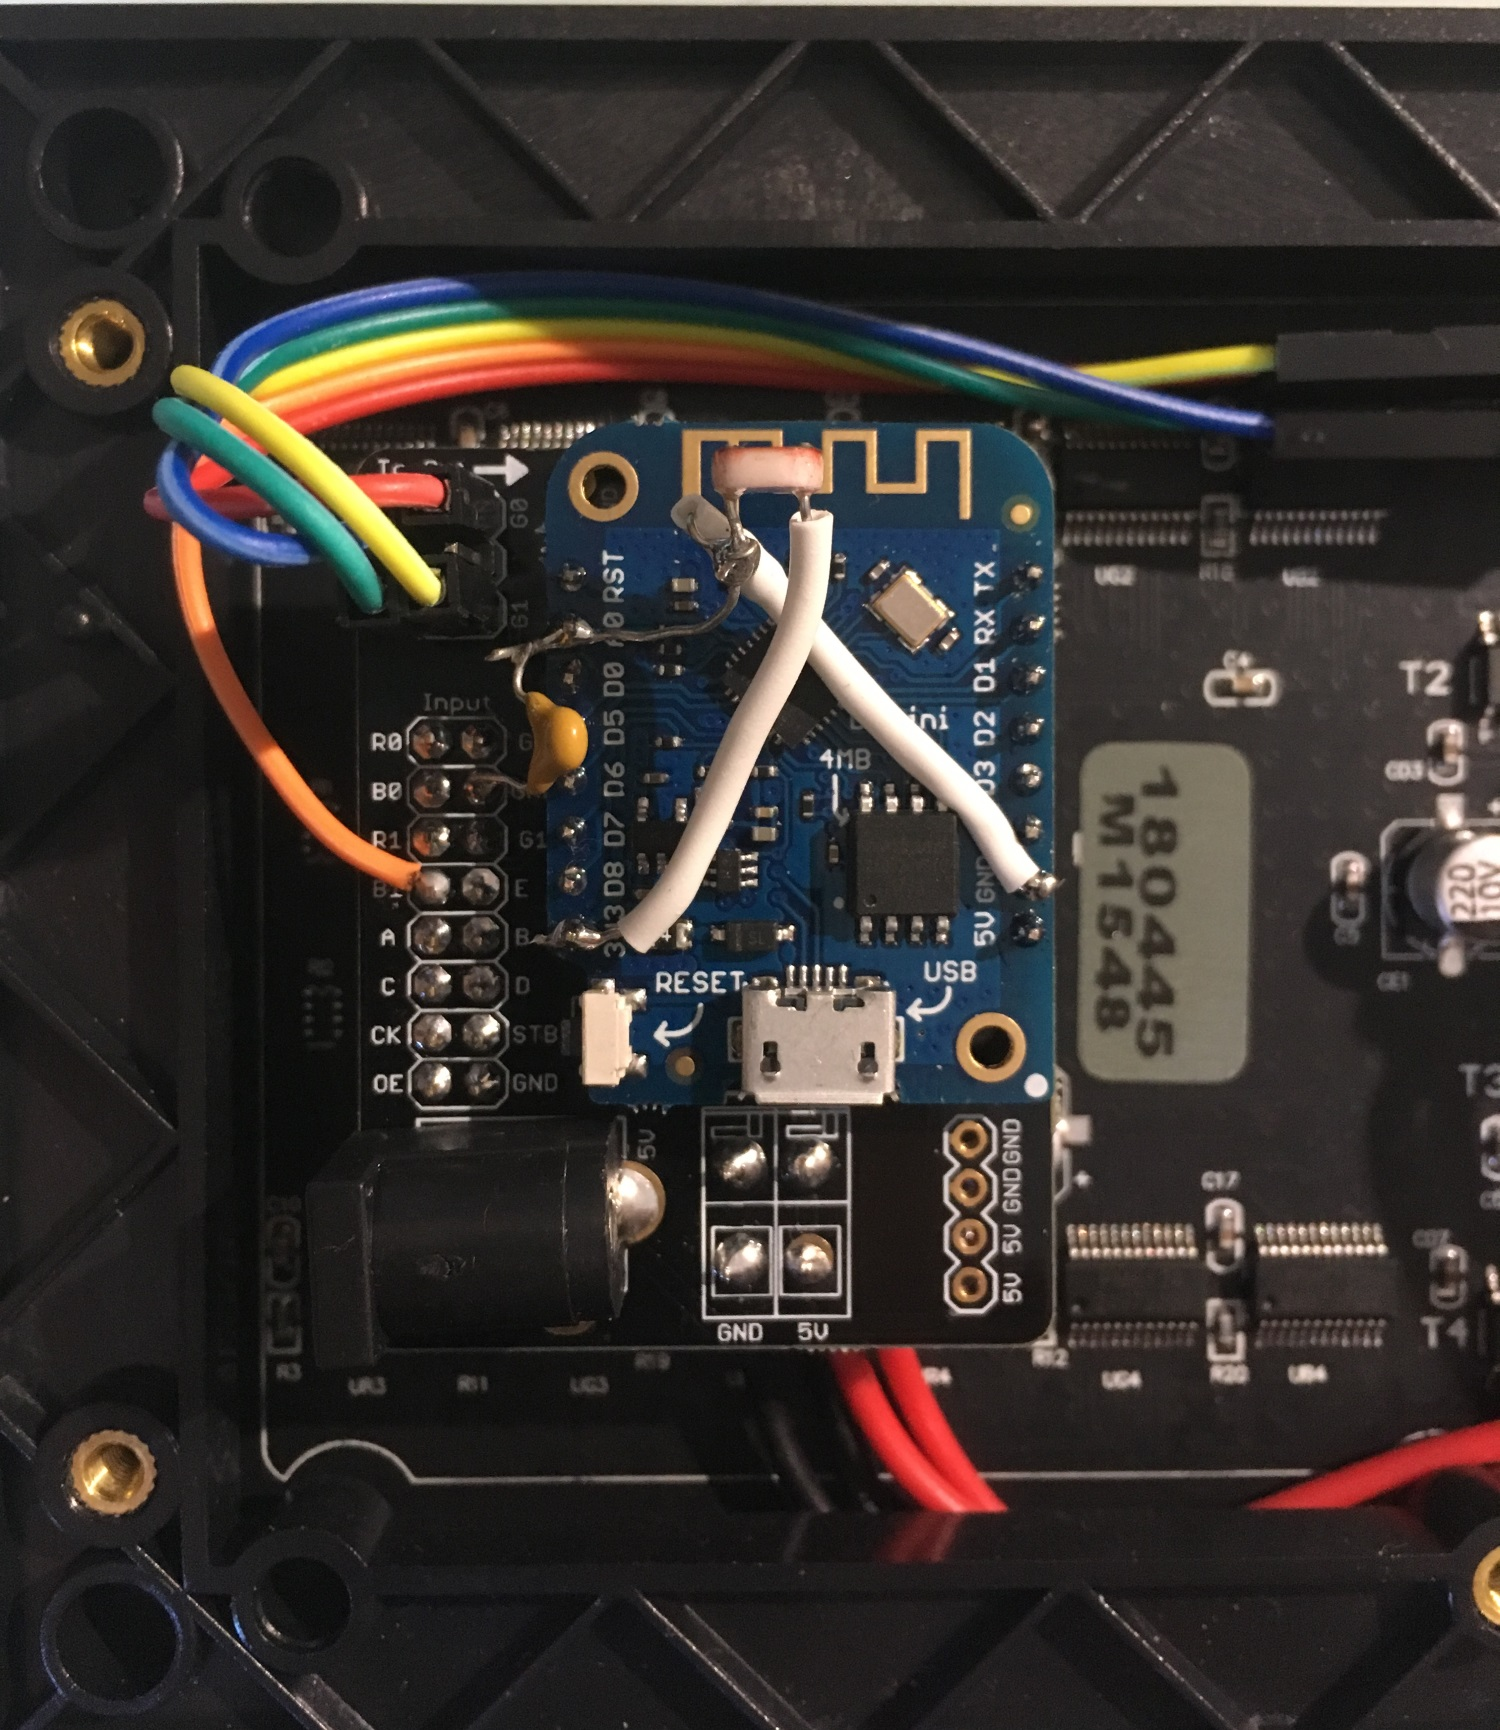
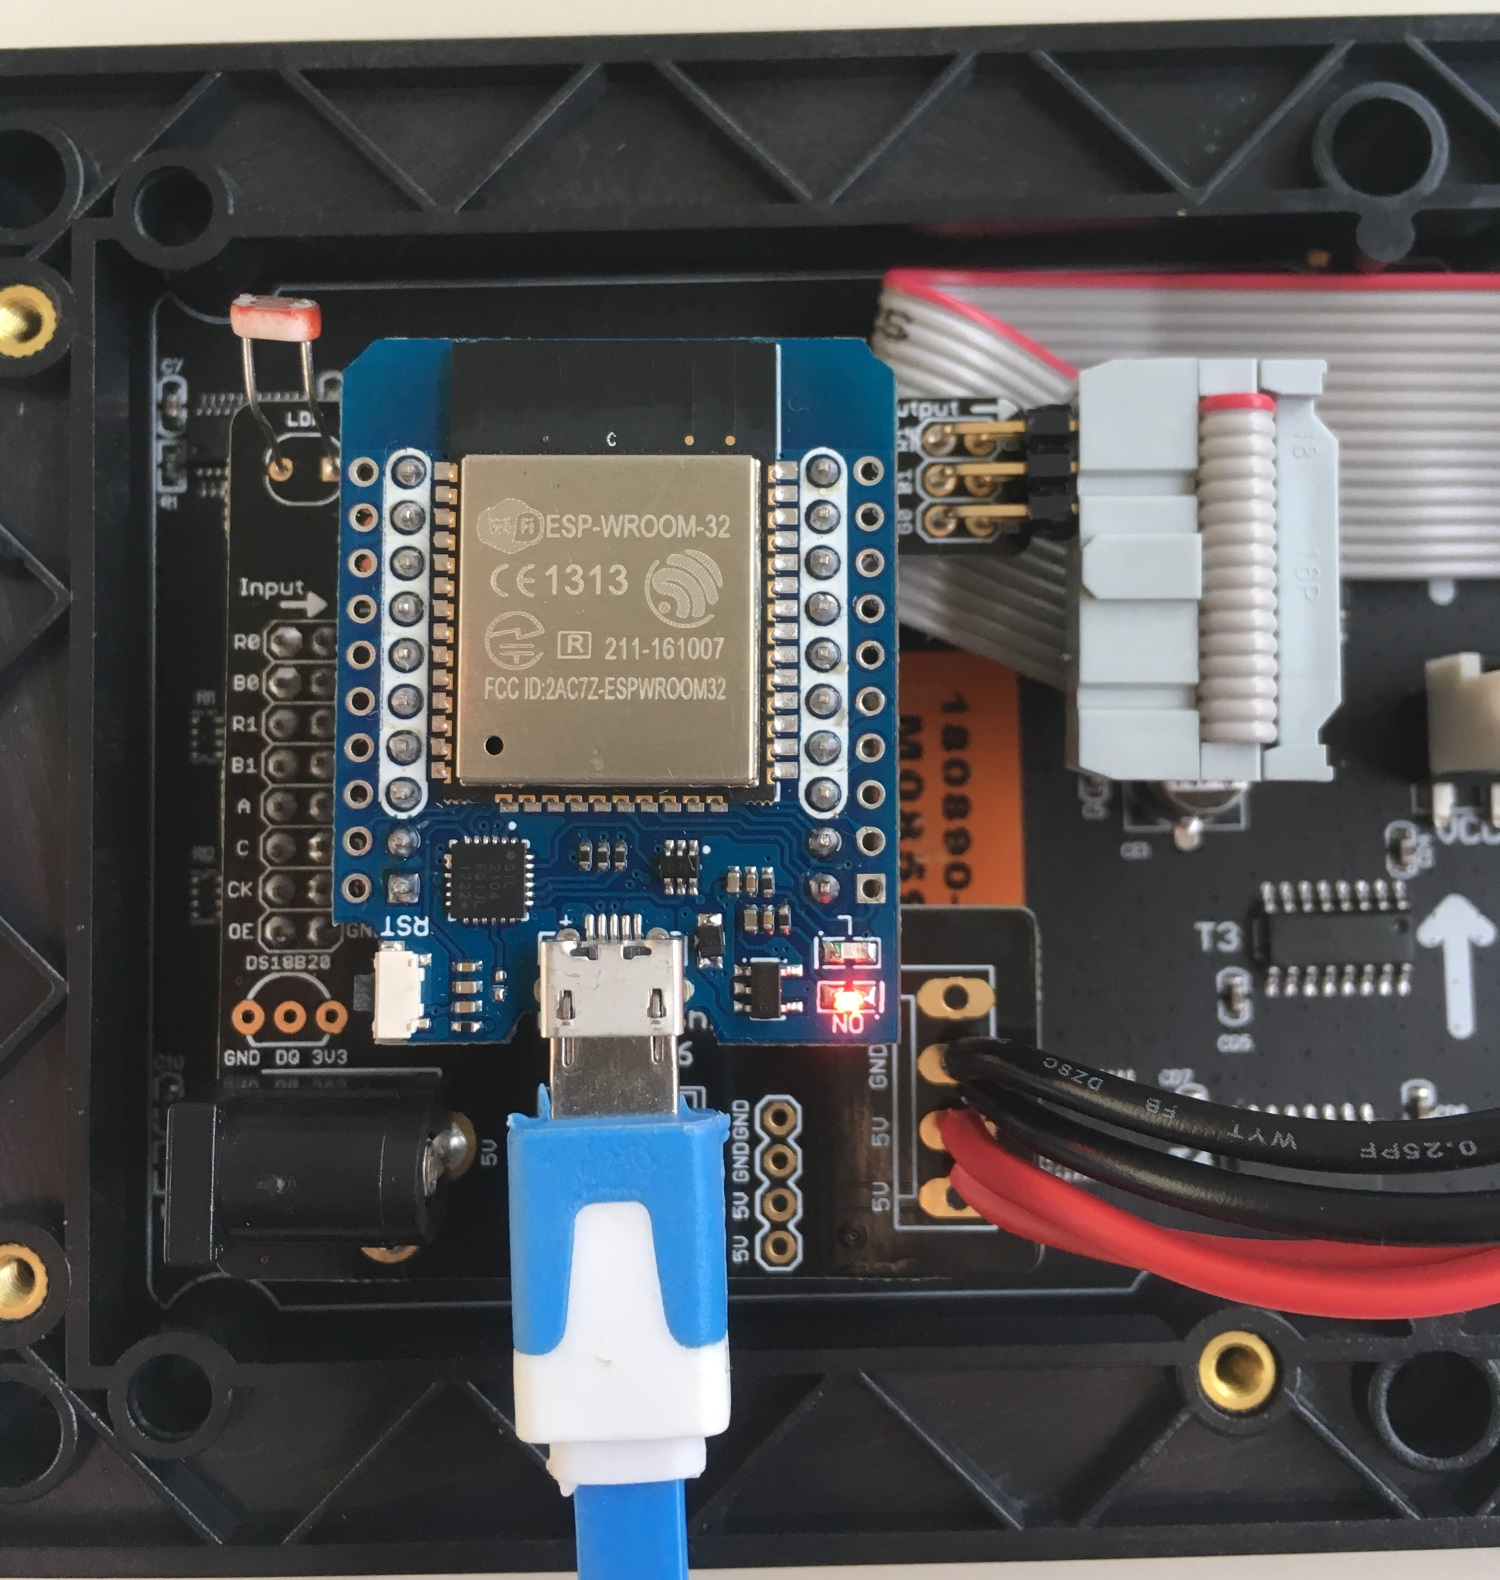
ESP32 Version

diff --git a/README.md b/README.md
@@ -100,7 +100,7 @@ Theese are pictures of the 1st PCB V1.0 with LDR Live Fix, just to see how are c
 
 <img src="https://github.com/hallard/WeMos-Matrix-Shield/raw/master/pictures/Wemos-Matrix-Full-Plug-Connector.jpg" alt="Plug connector on matrix">
 
-**On this one you can see my dirty hack to add the LDR and 10K resistor on old V1.0 board**
+**On this one you can see latest version with ESP32 MH-ET Live**
 
 <img src="https://github.com/hallard/WeMos-Matrix-Shield/raw/master/pictures/Wemos-Matrix-Plugged.jpg" alt="PCB plugged on matrix">
 
